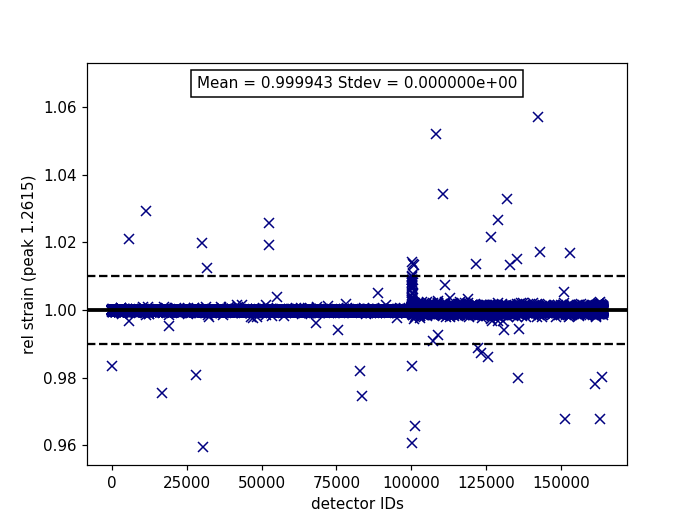
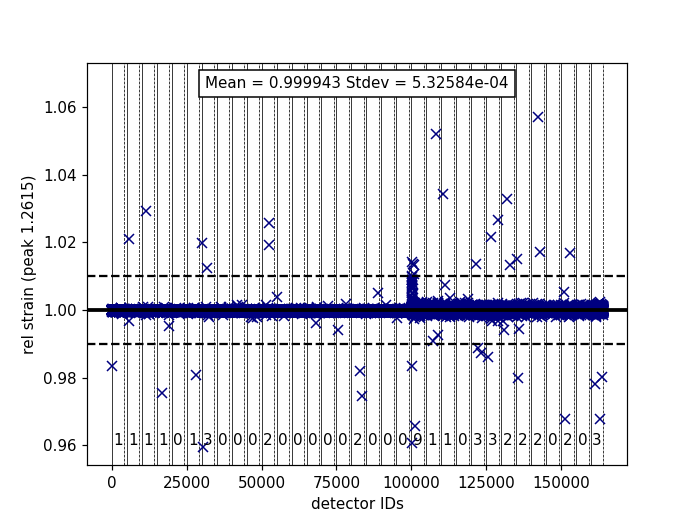
Fix plot calculation and plot refactor

diff --git a/scripts/Calibration/tofpd/diagnostics.py b/scripts/Calibration/tofpd/diagnostics.py
@@ -105,8 +105,10 @@ def __get_regions(x):
     return regions
 
 
-def __get_bad_counts(y, mean, band=0.01):
+def __get_bad_counts(y, mean=None, band=0.01):
     # Counts pixels in y that are outside of +/- mean*band
+    if not mean:
+        mean = np.mean(y)
     top = mean + mean * band
     bot = mean - mean * band
     return len(y[(y > top) | (y < bot)])
@@ -398,13 +400,20 @@ def plot_peakd(wksp, peak_positions, plot_regions=True, show_bad_cnt=True, drang
     """
     Plots peak d spacing value for each peak position in peaks
     :param wksp: Workspace returned from collect_peaks
-    :param peak_positions: List of peak positions
+    :param peak_positions: List of peak positions, or single peak position
+    :param plot_regions: Whether to show vertical lines indicating detector regions
+    :param show_bad_cnt: Whether to display number of pixels that fall outside of threshold from mean
+    :param drange: A tuple of the minimum and maximum detector ID to plot
+    :param threshold: The fraction of the mean to display horizontal bars at +/- the mean
     :return: plot, plot axes
     """
+
+    ylabel = "rel strain"
 
     peaks = peak_positions
     if isinstance(peak_positions, float):
         peaks = [peak_positions]
+        ylabel += " (peak {})".format(peaks[0])
 
     if len(peaks) == 0:
         raise ValueError("Expected one or more peak positions")
@@ -414,26 +423,27 @@ def plot_peakd(wksp, peak_positions, plot_regions=True, show_bad_cnt=True, drang
 
     fig, ax = plt.subplots()
     ax.set_xlabel("detector IDs")
-    if len(peaks) > 1:
-        ax.set_xlabel("rel strain")
-    else:
-        ax.set_ylabel("rel strain (peak {})".format(peaks[0]))
+    ax.set_ylabel(ylabel)
 
     # Hold the mean and stddev for each peak to compute total at end
     means = []
     stddevs = []
+    lens = []
 
     ax.set_prop_cycle(color=colormap_as_plot_color(len(peaks), cmap=plt.get_cmap("jet")))
 
     regions = []
     region_cnts = []
+    plotted_peaks = []
 
     # Use full detector range if not specified
-    if drange == (0, 0):
-        drange = (0, int(np.max(mtd[str(wksp)].detectorInfo().detectorIDs())))
+    max_detid = int(np.max(mtd[str(wksp)].detectorInfo().detectorIDs()))
+    if drange == (0, 0) or drange > (0, max_detid):
+        drange = (0, max_detid)
 
     # Plot data for each peak position
     for peak in peaks:
+        print("Processing peak position {}".format(peak))
         single = extract_peak_info(wksp, 'single', peak)
 
         # get x and y arrays from single peak ws
@@ -443,44 +453,40 @@ def plot_peakd(wksp, peak_positions, plot_regions=True, show_bad_cnt=True, drang
         # filter out any nans
         y_val = y[~np.isnan(y)]
 
-        # skip if y was entirely nans
-        if len(y_val) == 0:
-            print("No valid y-data was found for peak {}, so it will be skipped".format(peak))
-            continue
-
         try:
             dstart = single.yIndexOfX(drange[0])
-        except:
+        except ValueError:
             # If detector id not valid, find next closest range
             dstart = single.yIndexOfX(int(x.searchsorted(drange[0])) - 1)
             print("Specified starting detector range was not valid, adjusted to detID={}".format(dstart))
         try:
             dend = single.yIndexOfX(drange[1])
-        except:
+        except ValueError:
             dend = single.yIndexOfX(int(x.searchsorted(drange[1])))
             print("Specified ending detector range was not valid, adjusted to detID={}".format(dend))
 
         cut_id = (dstart, dend)
 
+        # skip if y was entirely nans or detector slice yields empty region
+        if len(y_val) == 0 or len(y_val[cut_id[0]:cut_id[1]]) == 0:
+            print("No valid y-data was found for peak {}, so it will be skipped".format(peak))
+            continue
+
+        lens.append(len(y_val[cut_id[0]:cut_id[1]]))
         means.append(np.mean(y_val[cut_id[0]:cut_id[1]]))
         stddevs.append(np.std(y_val[cut_id[0]:cut_id[1]]))
 
         # Draw vertical lines between detector regions
-        if plot_regions and not regions:
+        if not regions:
             regions = __get_regions(x[cut_id[0]:cut_id[1]])
-            for region in regions:
-                ax.axvline(x=region[0])
-                ax.axvline(x=region[1])
-                det_start = single.yIndexOfX(region[0])
-                det_end = single.yIndexOfX(region[1])
-                cnt = __get_bad_counts(y[det_start:det_end], means[len(means)-1], band=threshold)
-                region_cnts.append(cnt)
-                if show_bad_cnt:
-                    mid_region = 0.5 * (region[1] - region[0])
-                    ax.annotate("{}".format(cnt), xy=(mid_region, 0.05), xycoords=('data', 'axes fraction'),
-                                clip_on=True, ha="center")
+            if plot_regions:
+                for region in regions:
+                    ax.axvline(x=region[0], lw=0.5, color="black")
+                    ax.axvline(x=region[1], lw=0.5, color="black", ls="--")
+        plotted_peaks.append(peak)
 
-        ax.plot(x[cut_id[0]:cut_id[1]], y[cut_id[0]:cut_id[1]], marker="x", linestyle="None", label="{:0.6f}".format(peak))
+        ax.plot(x[cut_id[0]:cut_id[1]], y[cut_id[0]:cut_id[1]], marker="x", linestyle="None",
+                label="{:0.6f}".format(peak))
         ax.legend(bbox_to_anchor=(1, 1), loc="upper left")
 
     # If every peak had nans, raise error
@@ -488,9 +494,31 @@ def plot_peakd(wksp, peak_positions, plot_regions=True, show_bad_cnt=True, drang
         raise RuntimeError("No valid peak data was found for provided peak positions")
 
     # Calculate total mean and stddev of all peaks
-    total_mean = np.mean(means)
-    total_stddev = np.std(stddevs)
+    total_mean = np.sum(np.asarray(means) * np.asarray(lens)) / np.sum(lens)
+    sq_sum = np.sum(lens * (np.power(stddevs, 2) + np.power(means, 2)))
+    total_stddev = np.sqrt((sq_sum / np.sum(lens)) - total_mean ** 2)
 
+    # Get bad counts in regions over all peaks using the total mean
+    if show_bad_cnt and regions:
+        region_cnts = [0] * len(regions)
+        for peak in plotted_peaks:
+            single = extract_peak_info(wksp, 'single', peak)
+            y = single.dataY(0)
+            for i in range(len(regions)):
+                det_start = single.yIndexOfX(regions[i][0])
+                det_end = single.yIndexOfX(regions[i][1])
+                region_cnts[i] += __get_bad_counts(y[det_start:det_end], mean=total_mean, band=threshold)
+
+        # Display the bad counts for each region, or the overall count
+        if plot_regions:
+            for i in range(len(regions)):
+                mid_region = regions[i][0] + 0.5 * (regions[i][1] - regions[i][0])
+                ax.annotate("{}".format(region_cnts[i]), xy=(mid_region, 0.05), xycoords=('data', 'axes fraction'),
+                            clip_on=True, ha="center")
+        else:
+            overall_cnt = int(np.sum(region_cnts))
+            ax.annotate("{}".format(overall_cnt), xy=(0.5, 0.05), xycoords=('axes fraction', 'axes fraction'),
+                        clip_on=True, ha="center")
     # Draw solid line at mean
     ax.axhline(total_mean, color="black", lw=2.5)  # default lw=1.5
 

diff --git a/scripts/test/Calibration/tofpd/test_diagnostics.py b/scripts/test/Calibration/tofpd/test_diagnostics.py
@@ -6,7 +6,6 @@
 # SPDX - License - Identifier: GPL - 3.0 +
 
 import unittest
-from mantid.api import mtd
 from mantid.simpleapi import CompareWorkspaces, DeleteWorkspaces, LoadNexusProcessed, UnGroupWorkspace
 from Calibration.tofpd import diagnostics
 

diff --git a/docs/source/concepts/calibration/PowderDiffractionCalibration.rst b/docs/source/concepts/calibration/PowderDiffractionCalibration.rst
@@ -336,19 +336,24 @@ The plot shown above can be generated from the following script:
                                          infotype='dspacing')
     strain = diagnostics.collect_peaks('diag_dspacing', 'strain', donor='diag_fitted')
 
-    fig, ax = diagnostics.plot_peakd('strain', 1.2615, drange=(0, 200000))
+    fig, ax = diagnostics.plot_peakd('strain', 1.2615, drange=(0, 200000), plot_regions=True, show_bad_cnt=True)
+
+To plot the relative strain for multiple peaks, an array of positions can be passed instead of a single value.
+For example, using ``peakpositions`` in place of ``1.2615`` in the above example results in the relative strain for
+all peaks being plotted as shown below.
+
+.. figure:: /images/VULCAN_relstrain_all.png
 
 The vertical lines shown in the plot are drawn between detector regions and can be used to report the
 count of bad pixels found in each region. The solid vertical line indicates the start of a region,
 while the dashed vertical line indicates the end of a region. The vertical lines can be turned off
 with ``plot_regions=False`` and displaying the number of bad counts for each region can also be disabled
-with ``show_bad_cnt=False``.
+with ``show_bad_cnt=False``. When ``plot_regions=False`` but ``show_bad_cnt=True``, a single count of bad
+pixels over the entire range is shown at the bottom center of the plot.
 
 As seen in the above example, the x-range of the plot can be narrowed down using the ``drange`` option,
 which accepts a tuple of the starting detector ID and ending detector ID to plot.
 
 To adjust the horizontal bars above and below the mean, a percent can be passed to the ``threshold`` option.
-
-To plot the relative strain for multiple peaks, an array of positions can be passed instead of a single value.
 
 .. categories:: Calibration
